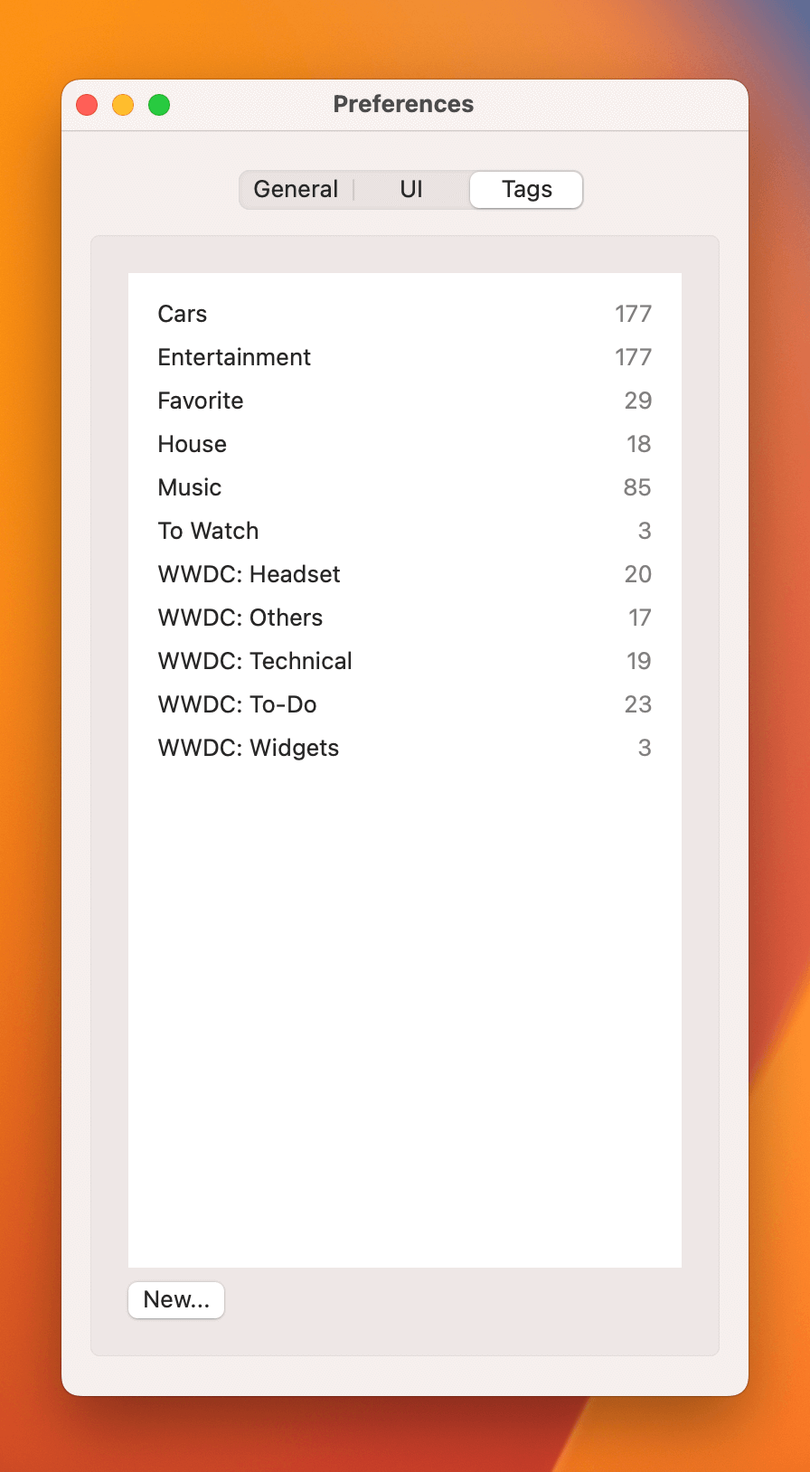
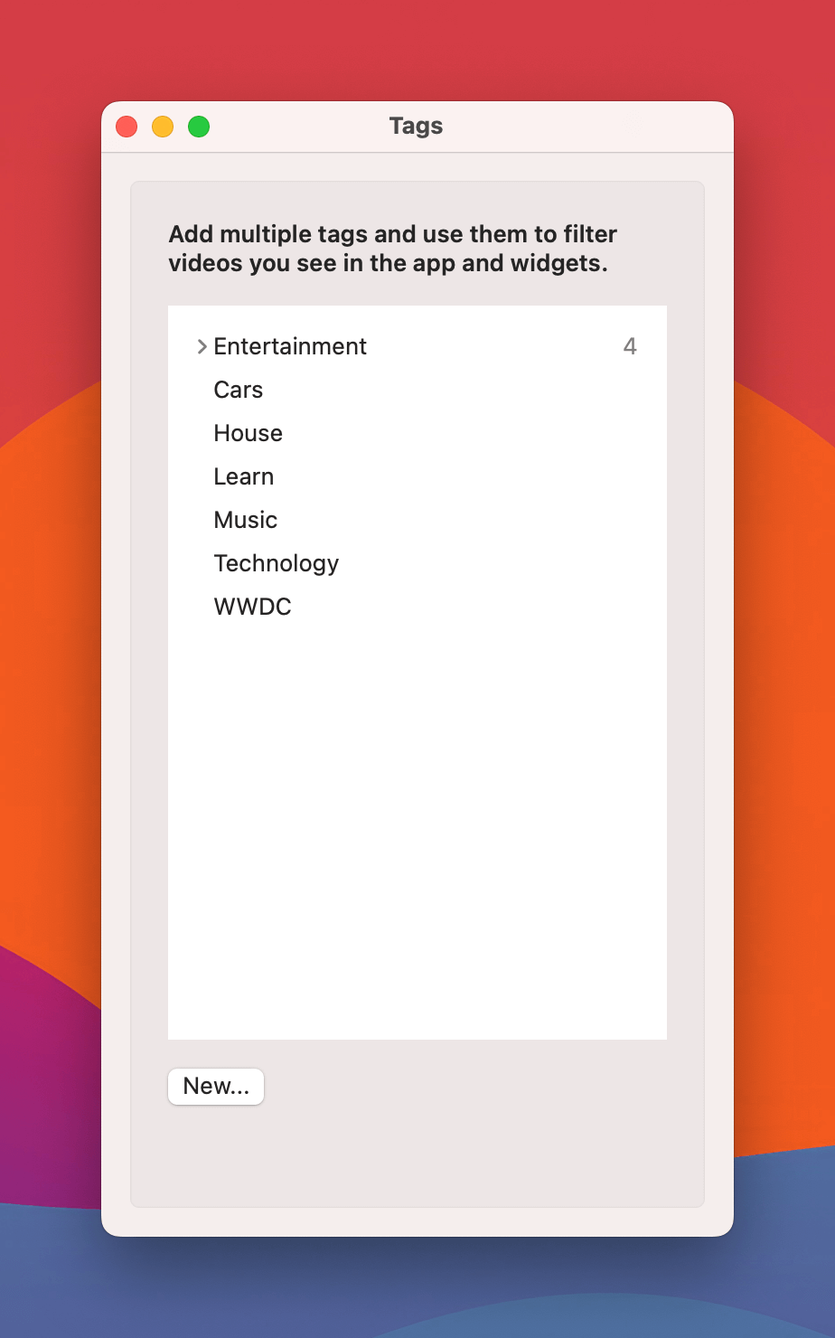
Update Play's help

diff --git a/support/play/play-help.html b/support/play/play-help.html
@@ -50,12 +50,13 @@
                                             <li><a class="underlined" href="#adding-videos-with-drag-and-drop">With Drag and Drop</a></li>
                                             <li><a class="underlined" href="#adding-videos-with-shortcuts">With Shortcuts</a></li>
                                             <li><a class="underlined" href="#adding-videos-from-playlist">From a Playlist</a></li>
-                                            <li><a class="underlined" href="#adding-videos-watch-later">YouTube's Watch Later</a></li>
+                                            <li><a class="underlined" href="#adding-videos-watch-later">YouTube’s Watch Later</a></li>
                                         </ol>
-                                        <li><a class="underlined" href="#channels">Channels</a></li>
+                                        <li><a class="underlined" href="#channels">Channels Inbox</a></li>
                                         <ol>
-                                            <li><a class="underlined" href="#channels-following">Following Channels</a></li>
                                             <li><a class="underlined" href="#channels-importing">Importing From YouTube</a></li>
+                                            <li><a class="underlined" href="#channels-following">Following Manually</a></li>
+                                            <li><a class="underlined" href="#channels-filtering-new-videos">Filtering New Videos</a></li>
                                             <li><a class="underlined" href="#channels-triaging-videos">Triaging Videos</a></li>
                                         </ol>
                                         <li><a class="underlined" href="#watching">Watching</a></li>
@@ -78,6 +79,7 @@
                                         <li><a class="underlined" href="#widgets">Widgets</a></li>
                                         <li><a class="underlined" href="#url-schemes">URL Schemes</a></li>
                                         <li><a class="underlined" href="#icloud">iCloud</a></li>
+                                        <li><a class="underlined" href="#faq">FAQ</a></li>
                                         <li><a class="underlined" href="#contact">Contact</a></li>
                                     </ol>
                                 </div>
@@ -90,7 +92,7 @@
                                 <p>Play fetches metadata and saves videos from a wide range of platforms. You can also add videos from other platforms by manually filling in all the required fields. Here are the details about all the methods available:</p>
                                 
                                 <p class="title is-5" style="padding-top: 2em;" id="adding-videos-with-url">With URL</p>
-                                <p>Click the <strong>Add Video button (+)</strong> in the toolbar to open the Add Video window. You can also acces it from the <strong>File → Add Video</strong> menu, or also with the <strong>⌘N</strong> keyboard shortcut:</p>
+                                <p>Click the <strong>Add Video button (+)</strong> in the toolbar to open the Add Video sheet. You can also acces it from the <strong>File → Add Video</strong> menu, with the <strong>⌘N</strong> keyboard shortcut, or from the Menu Bar button:</p>
 
                                 <figure class="image" style="padding: 1em 0;">
                                     <img alt="Add Video window" src="SCR-20220912-kx8.png">
@@ -98,7 +100,7 @@
 
                                 <p>You can paste multiple video URLs in the URLs text field, separating each one with a new line. Write notes in the Notes field to add them to all items. You can also choose multiple tags to add to the videos using the Add Tag button.</p>
 
-                                <p style="padding-top: 1em;">Once everything's ready, click the <strong>Import</strong> button to import the items.</p>
+                                <p style="padding-top: 1em;">Once everything’s ready, click the <strong>Import</strong> button to import the items.</p>
                                 
                                 <p class="title is-5" style="padding-top: 2em;" id="adding-videos-from-other-apps">From Other Apps</p>
                                 <p>You can add videos using Play directly from the Share Menu. On an app that supports sharing, click the <strong>Share</strong> button and choose <strong>Add to Play</strong>:</p>
@@ -120,7 +122,7 @@
                                 </figure>
                                 
                                 <p class="title is-5" style="padding-top: 2em;" id="adding-videos-with-drag-and-drop">With Drag and Drop</p>
-                                <p>Play supports adding videos by dragging and dropping their URL into the app. When you find a URL to a video, click and hold it to start dragging, and drop it in the Play window, inside the list of videos to add. The window's subtitle change to "Drop to add" to indicate that you can drop the URL to add the item:</p>
+                                <p>Play supports adding videos by dragging and dropping their URL into the app. When you find a URL to a video, click and hold it to start dragging, and drop it in the Play window, inside an empty spot in the list of videos. The window’s subtitle change to “Drop to add” to indicate that you can drop the URL to add the item:</p>
 
                                 <figure class="image" style="padding: 1em 0;">
                                     <img alt="Adding a video via drag and drop" src="SCR-20220912-kz7.png">
@@ -130,7 +132,7 @@
 
                                 <br>
 
-                                <p><strong>Note #2:</strong> A Safari issue when dragging an URL from the proxy icon is currently preventing this feature to work. Applications should assign a URL type for this dragged data, but Safari doesn't do that. It only works when we drag a URL from the page itself, like a video from the list of suggested videos, for example. I have feedback FB12101531 opened with Apple about this issue.</p>
+                                <p><strong>Note #2:</strong> A Safari issue when dragging an URL from the proxy icon is currently preventing this feature to work. Applications should assign a URL type for this dragged data, but Safari doesn’t do that. It only works when we drag a URL from the page itself, like a video from the list of suggested videos, for example. I’ve raised feedback FB12101531 with Apple regarding this issue.</p>
 
                                 <p class="title is-5" style="padding-top: 2em;" id="adding-videos-with-shortcuts">With Shortcuts</p>
                                 <p>You can automate adding items to Play by creating a custom shortcut in the Shortcuts app. Play offers the <strong>Add Video</strong> action, which accepts a video URL as input:</p>
@@ -148,50 +150,70 @@
                                     <img alt="Import From Playlist window" src="SCR-20220912-l2t.png">
                                 </figure>
 
-                                <p class="title is-5" style="padding-top: 2em;" id="adding-videos-watch-later">YouTube's Watch Later</p>
+                                <p class="title is-5" style="padding-top: 2em;" id="adding-videos-watch-later">YouTube’s Watch Later</p>
                                 
-                                <p>Integrating YouTube's watch later playlist into the app would be a fantastic addition. Unfortunately, since September 12, 2016, Google <a class="underlined" href="https://developers.google.com/youtube/v3/revision_history#august-11,-2016">no longer allows third-party applications to access it</a>. That's why Play manages its own queue.</p>
+                                <p>Integrating YouTube’s watch later playlist into the app would be a fantastic addition. Unfortunately, since September 12, 2016, Google <a class="underlined" href="https://developers.google.com/youtube/v3/revision_history#august-11,-2016">no longer allows third-party applications to access it</a>. That’s why Play manages its own queue.</p>
 
                                 <br>
 
                                 <p>However, there is an alternative solution available. You can convert your watch later playlist into a regular playlist on YouTube, and then import that playlist into Play. Please follow <a class="underlined" href="https://webapps.stackexchange.com/a/155256">this step-by-step guide</a> to help you with the process.</p>
                                 
-                                <!-- CHANNELS -->
+                                <!-- CHANNELS INBOX -->
                                 
-                                <p class="title is-3" style="padding-top: 2em;" id="channels">Channels</p>
-                                <p>Follow YouTube channels and get new videos as they're released. Easily save videos you want to watch and delete the rest. Your YouTube subscriptions free from algorithms!</p>
+                                <p class="title is-3" style="padding-top: 2em;" id="channels">Channels Inbox</p>
+                                <p>Follow YouTube channels and playlists to get new videos as they’re released. Easily save videos you want to watch and delete the rest. Your YouTube subscriptions free from algorithms!</p>
 
-                                <br>
+                                <figure class="image" style="padding: 1em 0;">
+                                    <img alt="" src="27F70DED-FDEE-4CDB-B1A2-0D9A0221DD44.png">
+                                </figure>
 
-                                <p><em>This feature requires Play version 2.0.0.</em></p>
+                                <p class="title is-5" style="padding-top: 2em;" id="channels-importing">Importing My YouTube Subscriptions</p>
 
-                                <p class="title is-5" style="padding-top: 2em;" id="channels-following">Following Channels</p>
+                                <p>Play supports importing the channels you’re subscribed to on YouTube via Google Takeout. <a href="play-help-google-takeout-macos.html" class="underlined">Click here</a> for a quick guide on how to export your YouTube subscriptions into a Play-compatible file format.</p>
 
-                                <p>Click <strong>Channels</strong> in the bottom-left toolbar, or go to <strong>File → Channels...</strong> to open your Inbox window. Then, click the <strong>+</strong> button to add a channel:</p>
+                                <p class="title is-5" style="padding-top: 2em;" id="channels-following">Following Manually</p>
+
+                                <p>Click <strong>Channels Inbox</strong> in the bottom-left toolbar, or go to <strong>Window → Channels Inbox</strong> to open your Channels Inbox window. Then, click the <strong>+</strong> button to add a channel or playlist:</p>
 
                                 <figure class="image" style="padding: 1em 0;">
                                     <img alt="" src="9A0A3E4B-B36D-4FD8-900A-52DD8D9E0D41.png">
                                 </figure>
 
-                                <p>Play accepts YouTube channel URLs in the <strong>youtube.com/@user</strong> format. You can also follow a channel by sharing a link with the Share Menu and choosing <strong>Add to Play</strong>.</p>
+                                <p>Play accepts YouTube channel URLs in the <strong>youtube.com/@user</strong> format and playlist URLs in the <strong>youtube.com/playlist?list=ID</strong> format. You can also follow a channel by sharing a link with the Share Menu and choosing <strong>Add to Play</strong>.</p>
 
                                 <br>
 
-                                <p>Additionally, you have the option to manually follow a channel in instances where Play is unable to retrieve the channel ID directly from the URL. Select <strong>Add Manually</strong> and fill in all the required fields.</p>
+                                <p>Additionally, you have the option to follow a channel by manually filling in the required fields, in instances where Play is unable to retrieve the channel ID directly from the URL. Select <strong>Manually</strong> and fill in all the required fields:</p>
 
                                 <figure class="image" style="padding: 1em 0;">
                                     <img alt="" src="9A0A3E4B-B36D-4FD8-900A-52DD8D9E0D42.png">
                                 </figure>
 
-                                <p>You'll need to get the channel ID in order to add it to Play. This can be accomplished through various methods, one of the most convenient being using a websites designed specifically to retrieve these IDs for you, such as <a class="underlined" href="https://commentpicker.com/youtube-channel-id.php">this one</a>.</p>
+                                <p>You’ll need to get the channel ID in order to add it to Play. This can be accomplished through various methods, one of the most convenient being using a websites designed specifically to retrieve these IDs for you, such as <a class="underlined" href="https://commentpicker.com/youtube-channel-id.php">this one</a>.</p>
 
-                                <p class="title is-5" style="padding-top: 2em;" id="channels-importing">Importing From YouTube</p>
+                                <p class="title is-5" style="padding-top: 2em;" id="channels-filtering-new-videos">Filtering New Videos</p>
 
-                                <p>Play supports importing the channels you subscribe to on YouTube through Google Takeout. <a href="play-help-google-takeout-macos.html" class="underlined">Click here</a> for a quick guide on how to export your YouTube subscriptions into a Play-compatible file format.</p>
+                                <p>With Channels Inbox you can automatically filter out shorts and videos with a specific keyword. It supports two types of filters: <strong>General Filters</strong> and <strong>Channel-Specific Filters</strong>.</p>
+
+                                <br>
+
+                                <p><strong>General Filters</strong> apply to new videos from all channels you follow. They allow you to hide shorts and filter by title and description. You can access them in <strong>Preferences → Channels</strong>:</p>
+
+                                <figure class="image" style="padding: 1em 0;">
+                                    <img alt="" src="9A0A3E4B-B36D-4FD8-900A-52DD8D9E0D45.png">
+                                </figure>
+
+                                <br>
+
+                                <p><strong>Channel-Specific Filters</strong> can be set up on a channel-basis, to filter new videos from a specific channel. They allow you to filter by title and description. You can access them by control-clicking a channel, and selecting <strong>Edit</strong>:</p>
+
+                                <figure class="image" style="padding: 1em 0;">
+                                    <img alt="" src="9A0A3E4B-B36D-4FD8-900A-52DD8D9E0D46.png">
+                                </figure>
 
                                 <p class="title is-5" style="padding-top: 2em;" id="channels-triaging-videos">Triaging Videos</p>
 
-                                <p>New videos from channels you follow will be shown in the <strong>Inbox</strong> view, accessible from the <strong>Channels</strong> button in the bottom-left toolbar. You can use the sidebar to switch between all new videos, new videos released today, and videos from a specific channel.</p>
+                                <p>New videos from channels you follow will be shown in the <strong>Channels Inbox</strong> view, accessible from the <strong>Channels Inbox</strong> button in the bottom-left toolbar. You can use the sidebar to switch between all new videos, new videos released today, and videos from a specific channel.</p>
 
                                 <figure class="image" style="padding: 1em 0;">
                                     <img alt="" src="9A0A3E4B-B36D-4FD8-900A-52DD8D9E0D43.png">
@@ -201,7 +223,7 @@
 
                                 <br>
 
-                                <p>To delete videos you're not interested in, simply select them and press the <strong>Delete</strong> key on your keyboard. You can also click the delete button in the toolbar.</p>
+                                <p>To delete videos you’re not interested in, simply select them and press the <strong>Delete</strong> key on your keyboard. You can also click the delete button in the toolbar.</p>
 
                                 <br>
 
@@ -214,7 +236,7 @@
                                 <!-- WATCHING -->
                                 
                                 <p class="title is-3" style="padding-top: 2em;" id="watching">Watching</p>
-                                <p>You can watch YouTube videos either within the app or directly on YouTube's website. Play also supports redirecting YouTube videos to alternative platforms like Invidious and Piped. You can also select your preferred browser in Preferences.</p>
+                                <p>You can watch YouTube videos either within the app or directly on YouTube’s website. Play also supports redirecting YouTube videos to alternative platforms like Invidious and Piped. You can also select your preferred browser in Preferences.</p>
 
                                 <p class="title is-5" style="padding-top: 2em;" id="watching-in-app">In-App</p>
                                 <p>To watch supported YouTube videos in-app, make sure the <strong>Play YouTube Videos Inline</strong> parameter is enabled in Preferences. Then, select a video, wait for the player to load, and click the play button.</p>
@@ -237,7 +259,7 @@
                                 <p>You can go to Preferences to configure watching YouTube videos on alternative platforms like Invidious and Piped and to choose your preferred browser.</p>
 
                                 <p class="title is-5" style="padding-top: 2em;" id="watching-playlist">Playlist</p>
-                                <p>To watch multiple YouTube videos in sequence, use the <strong>Play All New on YouTube</strong> button. It is available when Control-clicking any Tag, Smart Search, or Channel in the sidebar. It is also available in the File menu for playing all new videos from the 'New' section.</p>
+                                <p>To watch multiple YouTube videos in sequence, use the <strong>Play All New on YouTube</strong> button. It is available when Control-clicking any Tag, Smart Search, or Channel in the sidebar. It is also available in the File menu for playing all new videos from the “New” section.</p>
 
                                 <br>
 
@@ -245,7 +267,7 @@
 
                                 <br>
 
-                                <p>YouTube doesn't allow saving temporary playlists for later, but there's a workaround that enables you to accomplish this. Here's what the whole process looks like:</p>
+                                <p>YouTube doesn’t allow saving temporary playlists for later, but there’s a workaround that enables you to accomplish this. Here’s what the whole process looks like:</p>
 
                                 <div class="content">
                                     <ol>
@@ -265,10 +287,10 @@
                                 <p>Apply tags to categorize your videos and make them easier to find.</p>
 
                                 <p class="title is-5" style="padding-top: 2em;" id="tags-creating">Creating a New Tag</p>
-                                <p>Go to the <strong>File → New Tag</strong> menu or use the <strong>⌘T</strong> keyboard shortcut to open the New Tag window:</p>
+                                <p>Go to the <strong>File → New Tag</strong> menu or use the <strong>⌘T</strong> keyboard shortcut to open the New Tag sheet:</p>
 
                                 <figure class="image" style="padding: 1em 0;">
-                                    <img alt="New Tag window" src="SCR-20220912-gpb.png">
+                                    <img alt="New Tag sheet" src="SCR-20220912-gpb.png">
                                 </figure>
                                 
                                 <p>Type the name of the tag, choose a color, and click Save to create it.</p>
@@ -280,25 +302,25 @@
                                     <img alt="Edit tag from the sidebar" src="SCR-20220912-l3t.png">
                                 </figure>
                                 
-                                <p>You can also go to <strong>Play → Preferences...</strong> to see a list of your tags and access the edit button:</p>
+                                <p>You can also go to <strong>Organize → Tags...</strong> to see a list of your tags and access the edit button:</p>
 
                                 <figure class="image" style="padding: 1em 0;">
-                                    <img alt="Edit tag from Preferences" src="SCR-20220912-l4p.png">
+                                    <img alt="" src="SCR-20220912-l4p.png">
                                 </figure>
 
                                 <p class="title is-5" style="padding-top: 2em;" id="tags-auto-tagging">Auto-Tagging</p>
                                 <p>Use Auto-Tagging to automatically tag videos when adding, based on rules you set. You can create multiple Auto-Tagging rules, and each one can have numerous conditions. Auto-Tagging works when adding videos from anywhere, including Shortcuts and the Share Menu.</p>
 
-                                <p style="padding-top: 1em;">To create a new Auto-Tagging rule, go to <strong>File → Auto-Tagging...</strong> and click the <strong>New...</strong> button to open the New Auto-Tagging Rule window:</p>
+                                <p style="padding-top: 1em;">To create a new Auto-Tagging rule, go to <strong>Organize → Auto-Tagging...</strong> and click the <strong>New...</strong> button to open the New Auto-Tagging Rule sheet:</p>
 
                                 <figure class="image" style="padding: 1em 0;">
-                                    <img alt="New Auto-Tagging Rule window" src="SCR-20220912-l57.png">
+                                    <img alt="New Auto-Tagging Rule sheet" src="SCR-20220912-l57.png">
                                 </figure>
 
-                                <p>Click the <strong>Select Tag</strong> button to choose which tag will be applied. Next, tap the <strong>Add Condition...</strong> button to create a new condition for this tag to be applied, based on the video attribute you choose.</p>
+                                <p>Click the <strong>Select Tag</strong> menu to choose which tag will be applied. Next, tap the <strong>Add Condition...</strong> button to create a new condition for this tag to be applied, based on the video attribute you choose.</p>
 
                                 <figure class="image" style="padding: 1em 0;">
-                                    <img alt="Add Condition window" src="SCR-20220912-l5o.png">
+                                    <img alt="Add Condition sheet" src="SCR-20220912-l5o.png">
                                 </figure>
 
                                 <p>Choose which attribute Play will evaluate. The options are Title, Channel, and Duration. The possible values change depending on which attribute is selected. Play expects one condition for each comparison. So, for example, if you want to compare two different values for the Title attribute, you should create two different conditions, one for each value. Play will ignore text cases and diacritic marks when comparing text.</p>
@@ -323,7 +345,7 @@
                                 <p class="title is-5" style="padding-top: 2em;" id="search-smart-search">Smart Search</p>
                                 <p>Create a Smart Search to automatically collect videos based on a set of rules. Play shows Smart Searches in the sidebar, below the Tags section.</p>
 
-                                <p style="padding-top: 1em;">Go to <strong>File → Smart Search...</strong> to create a new Smart Search:</p>
+                                <p style="padding-top: 1em;">Go to <strong>Organize → Smart Search...</strong> to create a new Smart Search:</p>
 
                                 <figure class="image" style="padding: 1em 0;">
                                     <img alt="Smart Search window" src="SCR-20220912-l7y.png">
@@ -376,12 +398,13 @@
                                     <li><strong>Add Video:</strong> <code>play://add?url=&lt;videoURL&gt;</code></li>
                                     <li><strong>Open Video:</strong> <code>play://open?id=&lt;videoID&gt;</code></li>
                                     <li><strong>Open Random New Video:</strong> <code>play://open-random-new</code></li>
+                                    <li><strong>Open Channels Inbox:</strong> <code>play://channels</code></li>
                                 </ul>
 
                                 <!-- ICLOUD -->
                                 
                                 <p class="title is-3" style="padding-top: 2em;" id="icloud">iCloud</p>
-                                <p>Play uses iCloud to keep your videos up to date and available across all your devices. If you're having problems such as videos not syncing or devices being out of sync, please try the following:</p>
+                                <p>Play uses iCloud to keep your videos up to date and available across all your devices. If you’re having problems such as videos not syncing or devices being out of sync, please try the following:</p>
 
                                 <div class="content">
                                     <ul>
@@ -391,27 +414,37 @@
                                         <li>Make sure you are signed into the same iCloud account on all devices.</li>
                                         <li>Make sure iCloud Drive is turned on. Go to the System Preferences → Apple ID → iCloud. Make sure the iCloud Drive option is enabled.</li>
                                         <li>Make sure Play is enabled in iCloud Drive. Go to the System Preferences → Apple ID → iCloud → iCloud Drive Options. Scroll down, find Play, and make sure it is enabled.</li>
-                                        <li>Reset Play's iCloud Drive permissions. Go to the System Preferences → Apple ID → iCloud → iCloud Drive Options. Scroll down, find Play, disable and enable it.</li>
+                                        <li>Reset Play’s iCloud Drive permissions. Go to the System Preferences → Apple ID → iCloud → iCloud Drive Options. Scroll down, find Play, disable and enable it.</li>
                                         <li>Update Play to the latest version on all your devices. Go to the App Store → Updates and check if Play is updated.</li>
                                         <li>Make sure you have the latest macOS version on all your devices. Go to the System Preferences → Software Update.</li>
                                         <li>Try reinstalling Play. Go to the Launchpad → click and hold Play → Delete (X) → Delete. Then, go to the App Store, search and install Play.</li>
                                     </ul>
                                 </div>
 
-                                <p>If you have checked these settings on all your devices and iCloud Sync still isn't working, please check Apple's <a href="https://www.apple.com/support/icloud/systemstatus/">System Status</a> page to see if iCloud Backup or iCloud Drive are having any issues.</p>
+                                <p>If you have checked these settings on all your devices and iCloud Sync still isn’t working, please check Apple’s <a href="https://www.apple.com/support/icloud/systemstatus/">System Status</a> page to see if iCloud Backup or iCloud Drive are having any issues.</p>
 
                                 <!-- <br> -->
 
-                                <!-- <p>There is an additional troubleshooting measure which involves reseting Play's database to a clean state. 99.9% of the problems should be fixed by following the previous steps, so only consider this action as a last resort. And note that there is a risk of data loss by doing this procedure.</p> -->
+                                <!-- <p>There is an additional troubleshooting measure which involves reseting Play’s database to a clean state. 99.9% of the problems should be fixed by following the previous steps, so only consider this action as a last resort. And note that there is a risk of data loss by doing this procedure.</p> -->
 
                                 <!-- <br> -->
 
                                 <!-- <p>To reset the database to a clean state, go to Play → iCloud Status and type the Command+Shift+O keyboard shortcut. It reveals the location on disk where the database is located. You should quit Play, then delete these three files: Play.sqlite, Play.sqlite-shm, and Play.sqlite-wal. After deleting the files, reopen Play and wait for the iCloud data to sync.</p> -->
 
+                                <!-- FAQ -->
+
+                                <p class="title is-3" style="padding-top: 2em;" id="faq">FAQ</p>
+
+                                <p><strong>How do I export my list of videos?</strong></p>
+                                <br>
+                                <p>You can use the <strong>Get Videos</strong> action in Shortcuts to access and export your list of videos. Here is an example of a <a class="underlined" href="https://www.icloud.com/shortcuts/d656a98d412646b7bca4f01d2f1ee9a4">shortcut that exports all video URLs to a text file</a>.</p>    
+
+                                
+
                                 <!-- CONTACT -->
                                 
                                 <p class="title is-3" style="padding-top: 2em;" id="contact">Contact</p>
-                                <p>If you have any questions about Play, I'd be happy to help. Feel free to reach out to me at <a class="underlined" href="mailto:marcosatanaka@gmail.com">marcosatanaka@gmail.com</a> and I'll get back to you as soon as possible.</p>
+                                <p>If you have any questions about Play, I’d be happy to help. Feel free to reach out to me at <a class="underlined" href="mailto:marcosatanaka@gmail.com">marcosatanaka@gmail.com</a> and I’ll get back to you as soon as possible.</p>
 			                </div> <!-- <div class="column is-6 is-offset-0"> -->
                         </div> <!-- <div class="columns"> -->
                     </section> <!-- <section class="section"> -->
